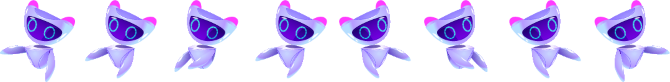
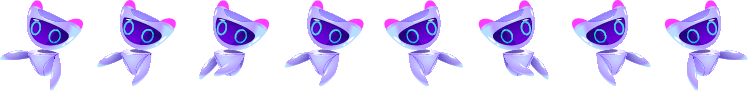
update: style and player on the game page

diff --git a/frontend/src/Components/Game/GameScene.js b/frontend/src/Components/Game/GameScene.js
@@ -1,68 +1,44 @@
 import Phaser from 'phaser';
-import ScoreLabel from './ScoreLabel';
-import BombSpawner from './BombSpawner';
 import skyAsset from '../../assets/arena.png';
 import platformAsset from '../../assets/arena_platform.png';
-import starAsset from '../../assets/star.png';
-import bombAsset from '../../assets/bomb.png';
-import blueRobotAsset from '../../assets/blue-rrobot.png';
+import blueRobotAsset from '../../assets/blue-robot.png';
 import roseRobotAsset from '../../assets/rose-robot.png';
 
 
-const GROUND_KEY = 'ground';
 const BLUE_ROBOT_KEY = 'blue-robot';
 const ROSE_ROBOT_KEY = 'rose-robot';
-const STAR_KEY = 'star';
-const BOMB_KEY = 'bomb';
 
 class GameScene extends Phaser.Scene {
   constructor() {
     super('game-scene');
-    this.player = undefined;
     this.player2 = undefined;
+    this.player1 = undefined;
     this.cursors = undefined;
-    this.scoreLabel = undefined;
-    this.stars = undefined;
-    this.bombSpawner = undefined;
+    // this.scoreLabel = undefined;
     this.gameOver = false;
   }
 
   preload() {
     this.load.image('sky', skyAsset);
-    this.load.image(GROUND_KEY, platformAsset);
-    this.load.image(STAR_KEY, starAsset);
-    this.load.image(BOMB_KEY, bombAsset);
-    
+    this.load.image('ground', platformAsset);
     this.load.spritesheet(BLUE_ROBOT_KEY, blueRobotAsset, {
-      frameWidth: 82,
-      frameHeight: 80,
+      frameWidth: 91.55,
+      frameHeight: 90,
     });
-
     this.load.spritesheet(ROSE_ROBOT_KEY, roseRobotAsset, {
-      frameWidth: 83,
-      frameHeight: 80,
+      frameWidth: 93.25,
+      frameHeight: 90,
     });
   }
 
   create() {
-    this.add.image(401, 350, 'sky').setScale(0.4).setY(330).setX(601);
-    const platforms = this.createPlatforms();
-    this.player = this.createPlayer(100, 450, BLUE_ROBOT_KEY);
-    this.player2 = this.createPlayer(900, 450, ROSE_ROBOT_KEY);
-
-    this.stars = this.createStars();
-    this.scoreLabel = this.createScoreLabel(16, 16, 0);
-    this.bombSpawner = new BombSpawner(this, BOMB_KEY);
-    const bombsGroup = this.bombSpawner.group;
-    this.physics.add.collider(this.stars, platforms);
-    this.physics.add.collider(this.player, platforms);
-    this.physics.add.collider(this.player2, platforms);
-
-    this.physics.add.collider(bombsGroup, platforms);
-    this.physics.add.collider(this.player, bombsGroup, this.hitBomb, null, this);
-    this.physics.add.overlap(this.player, this.stars, this.collectStar, null, this);
-    this.physics.add.collider(this.player2, bombsGroup, this.hitBomb, null, this);
-    this.physics.add.overlap(this.player2, this.stars, this.collectStar, null, this);
+    this.add.image(401, 350, 'sky').setScale(0.4).setY(225).setX(600);
+    const platform = this.physics.add.staticGroup().create(600, 350, 'ground').setScale(0.4).setY(460).refreshBody();
+    this.player1 = this.createPlayer(100, 200, BLUE_ROBOT_KEY);
+    this.player2 = this.createPlayer(1100, 200, ROSE_ROBOT_KEY);
+    this.physics.add.collider(this.player2, platform);
+    this.physics.add.collider(this.player1, platform);
+    this.physics.add.collider(this.player1, this.player2);
     this.cursors = this.input.keyboard.createCursorKeys();
 
     /* The Collider takes two objects and tests for collision and performs separation against them.
@@ -74,56 +50,51 @@ class GameScene extends Phaser.Scene {
       return;
     }
 
+    if (this.physics.collide(this.player2, this.player1)) {
+      this.player2.setVelocity(0);
+    }
     // player 1 controls
     if (this.cursors.left.isDown) {
-      this.player.setVelocityX(-160);
-      this.player.anims.play('left-blue-robot', true);
-    } else if (this.cursors.right.isDown) {
-      this.player.setVelocityX(160);
-      this.player.anims.play('right-blue-robot', true);
-    } else {
-      this.player.setVelocityX(0);
-      this.player.anims.play('turn-blue-robot');
-    }
-  
-    if (this.cursors.up.isDown && this.player.body.touching.down) {
-      this.player.setVelocityY(-300);
-    }
-  
-    if (this.cursors.down.isDown){
-      this.player.setVelocityY(300);
-    }
-  
-    // player 2 controls
-    if (this.input.keyboard.addKey('Q').isDown) {
       this.player2.setVelocityX(-160);
-      this.player2.anims.play('left-rose-robot', true);
-    } else if (this.input.keyboard.addKey('D').isDown) {
+      this.player2.anims.play('left-blue-robot', true);
+    } else if (this.cursors.right.isDown) {
       this.player2.setVelocityX(160);
-      this.player2.anims.play('right-rose-robot', true);
+      this.player2.anims.play('right-blue-robot', true);
     } else {
       this.player2.setVelocityX(0);
-      this.player2.anims.play('turn-rose-robot');
+      this.player2.anims.play('turn-blue-robot');
     }
   
-    if (this.input.keyboard.addKey('Z').isDown && this.player2.body.touching.down) {
+    if (this.cursors.up.isDown && this.player2.body.touching.down) {
       this.player2.setVelocityY(-300);
     }
   
-    if (this.input.keyboard.addKey('S').isDown){
+    if (this.cursors.down.isDown){
       this.player2.setVelocityY(300);
     }
-  }
-
-  createPlatforms() {
-    const platforms = this.physics.add.staticGroup();
-
-    platforms
-      .create(400, 568, GROUND_KEY)
-      .setScale(0.4)
-      .setX(600)
-      .refreshBody();
-    return platforms;
+  
+    if (this.physics.collide(this.player2, this.player1)) {
+      this.player1.setVelocity(0);
+    }
+    // player 2 controls
+    if (this.input.keyboard.addKey('Q').isDown) {
+      this.player1.setVelocityX(-160);
+      this.player1.anims.play('left-rose-robot', true);
+    } else if (this.input.keyboard.addKey('D').isDown) {
+      this.player1.setVelocityX(160);
+      this.player1.anims.play('right-rose-robot', true);
+    } else {
+      this.player1.setVelocityX(0);
+      this.player1.anims.play('turn-rose-robot');
+    }
+  
+    if (this.input.keyboard.addKey('Z').isDown && this.player1.body.touching.down) {
+      this.player1.setVelocityY(-300);
+    }
+  
+    if (this.input.keyboard.addKey('S').isDown){
+      this.player1.setVelocityY(300);
+    }
   }
 
   createPlayer(x, y, key) {
@@ -143,14 +114,12 @@ class GameScene extends Phaser.Scene {
       // eslint-disable-next-line prefer-template
       key: 'turn-' + key,
       // eslint-disable-next-line object-shorthand
-      frames: [{ key: key, frame: 4 }],
-      frameRate: 20,
+      frames: [{ key: key, frame: 3 }],
     });
 
     this.anims.create({
       key: 'turn-rose-robot',
-      frames: [{ key: ROSE_ROBOT_KEY, frame: 3 }],
-      frameRate: 20,
+      frames: [{ key: ROSE_ROBOT_KEY, frame: 4 }],
     });
   
     this.anims.create({
@@ -162,53 +131,6 @@ class GameScene extends Phaser.Scene {
     });
   
     return player;
-  }
-
-  createStars() {
-    const stars = this.physics.add.group({
-      key: STAR_KEY,
-      repeat: 11,
-      setXY: { x: 12, y: 0, stepX: 70 },
-    });
-
-    stars.children.iterate((child) => {
-      child.setBounceY(Phaser.Math.FloatBetween(0.4, 0.8));
-    });
-
-    return stars;
-  }
-
-  collectStar(player, star) {
-    star.disableBody(true, true);
-    this.scoreLabel.add(10);
-    if (this.stars.countActive(true) === 0) {
-      //  A new batch of stars to collect
-      this.stars.children.iterate((child) => {
-        child.enableBody(true, child.x, 0, true, true);
-      });
-    }
-
-    this.bombSpawner.spawn(player.x);
-  }
-
-  createScoreLabel(x, y, score) {
-    const style = { fontSize: '32px', fill: '#000' };
-    const label = new ScoreLabel(this, x, y, score, style);
-    console.log('score:', label);
-    this.add.existing(label);
-
-    return label;
-  }
-
-  hitBomb(player) {
-    this.scoreLabel.setText(`GAME OVER : ( \nYour Score = ${this.scoreLabel.score}`);
-    this.physics.pause();
-
-    player.setTint(0xff0000);
-
-    player.anims.play('turn');
-
-    this.gameOver = true;
   }
 }
 

diff --git a/frontend/src/Components/Pages/GamePage.js b/frontend/src/Components/Pages/GamePage.js
@@ -5,8 +5,11 @@ let game;
 
 const GamePage = () => {
   const phaserGame = `
-<div id="gameDiv" class="d-flex justify-content-center my-3">
-</div>`;
+  <div class="d-flex justify-content-center h-sm-75">
+    <div id="gameDiv" class="d-flex justify-content-center">
+    </div>
+  </div>
+`;
 
   const main = document.querySelector('main');
   main.innerHTML = phaserGame;
@@ -14,15 +17,15 @@ const GamePage = () => {
   const config = {
     type: Phaser.AUTO,
     width: 1200,
-    height: 600,
+    height: 500,
     physics: {
       default: 'arcade',
       arcade: {
-        gravity: { y: 500 },
+        gravity: { y: 1000 },
         debug: false,
       },
     },
-    canvasStyle: 'border: 4px solid #DAA520; box-sizing: border-box;', // Add any other styles as needed
+    canvasStyle: 'border: 7px solid #ffc107; box-sizing: border-box; border-radius: 10px;', // Add any other styles as needed
 
     scene: [GameScene],
     //  parent DOM element into which the canvas created by the renderer will be injected.
